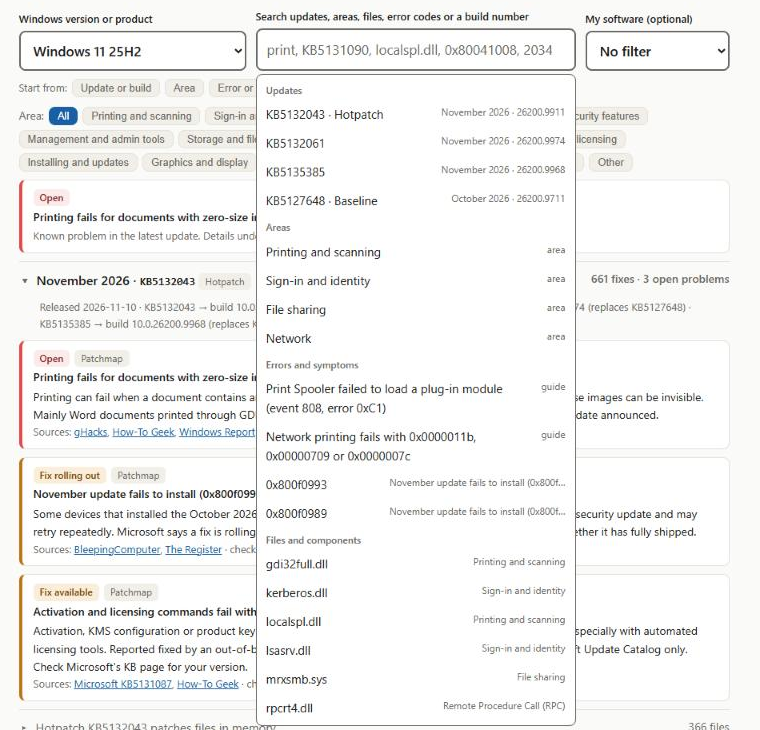
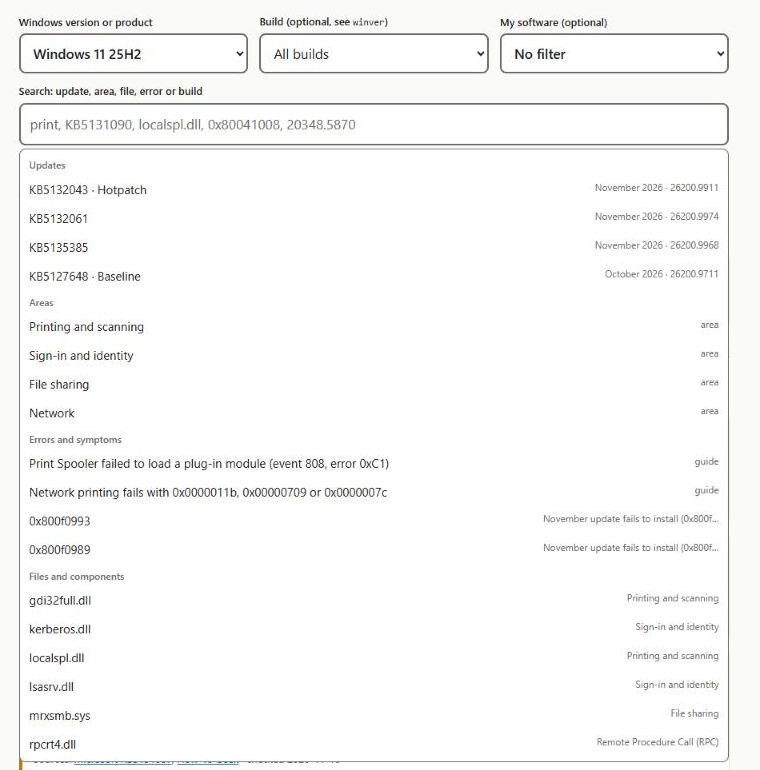
About: updated four-ways screenshot for the new layout

diff --git a/about.html b/about.html
@@ -31,7 +31,7 @@
   <h2>Four ways in</h2>
   <p>Start from whatever you have: an <b>update or build</b> (KB5132043, 26200.9911), an <b>area</b> (printing), an <b>error or symptom</b> (0xC1) or a <b>file or part of Windows</b> (localspl.dll, Print Spooler). Suggestions appear as you type, grouped by these four, and the <b>Start from</b> buttons show examples of each. Every result links to the other three: an update to the areas and files it changed, a file to the updates that changed it and related errors, an error to its area and files.</p>
   <figure class="shot">
-    <img src="images/four-ways-suggestions.png" width="760" height="730" loading="lazy" alt="Patchmap search box with the suggestion list open, grouped into Updates, Areas, Errors and symptoms, and Files and components">
+    <img src="images/four-ways-suggestions.png?v=2" width="760" height="770" loading="lazy" alt="Patchmap search box with the suggestion list open, grouped into Updates, Areas, Errors and symptoms, and Files and components">
     <figcaption>Click the search box (or start typing) and suggestions appear in four groups: updates, areas, errors and symptoms, files and components.</figcaption>
   </figure>
   <figure class="shot">
